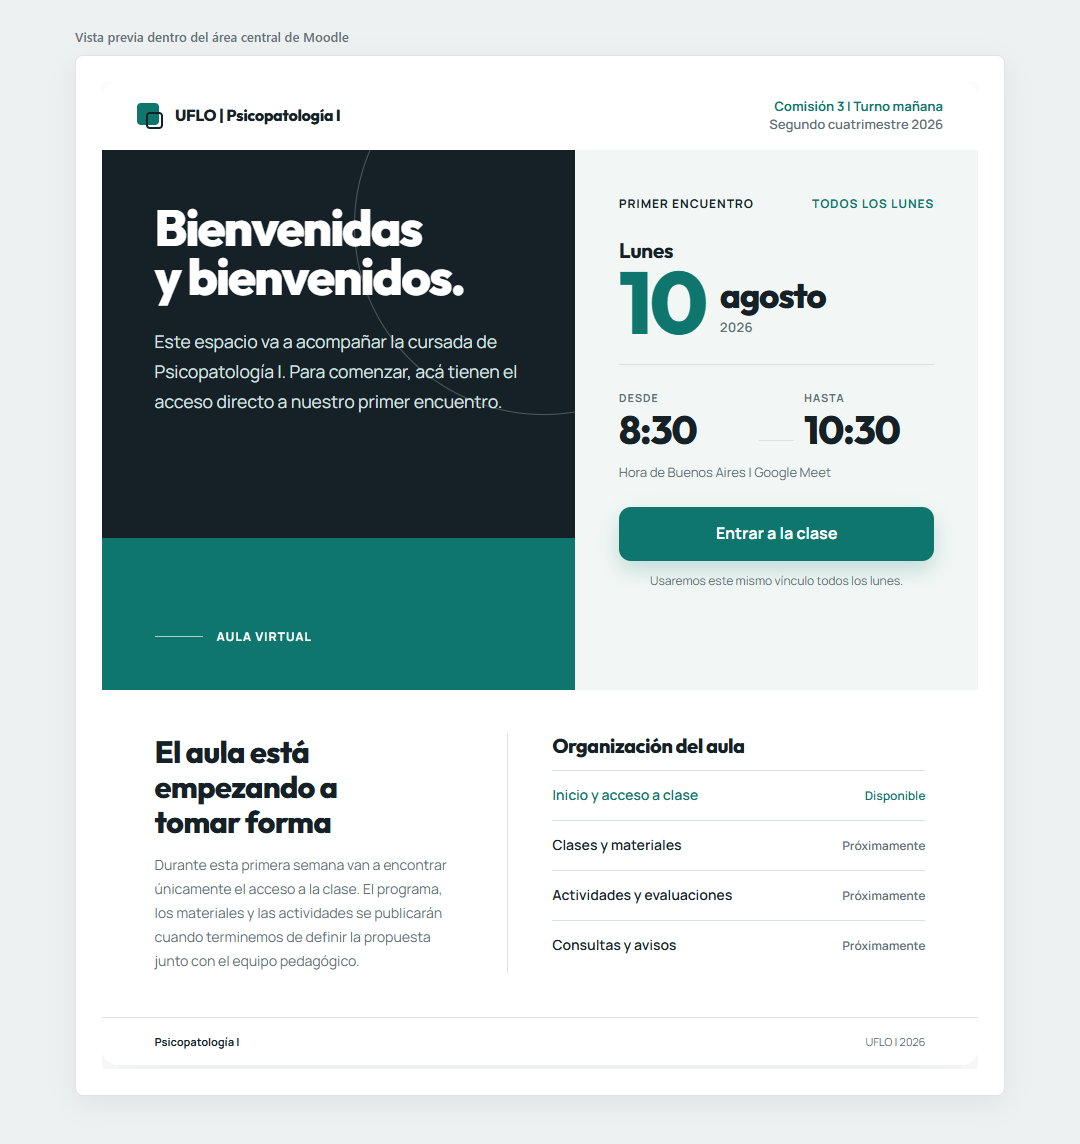
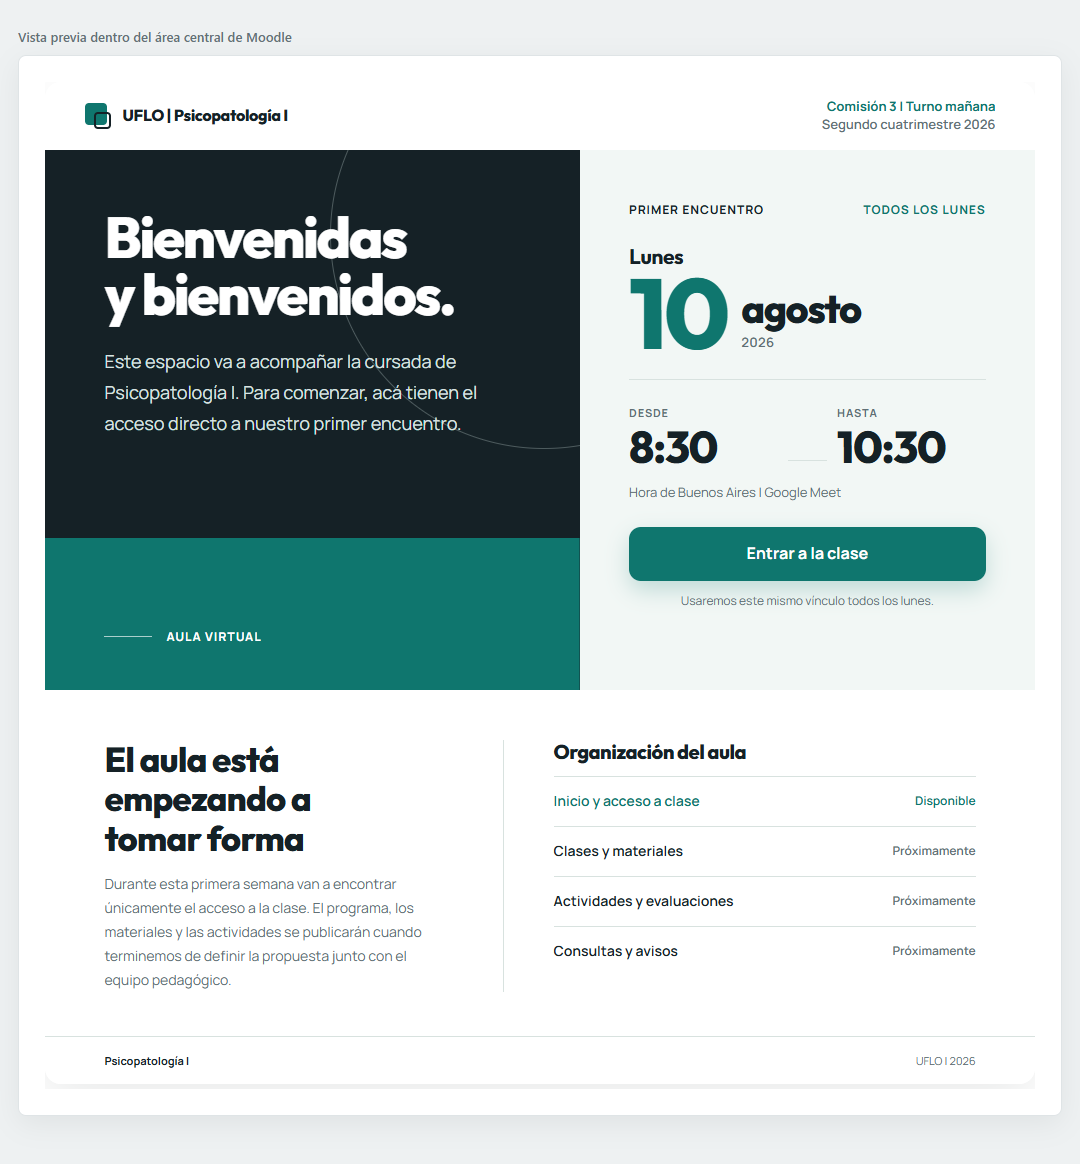
Aprovechar todo el ancho disponible en Moodle

diff --git a/inicio.html b/inicio.html
@@ -41,8 +41,9 @@
       border-radius: var(--pci-radius);
       box-shadow: 0 18px 52px rgba(21, 33, 38, 0.09);
       margin: 0 auto;
-      max-width: 1100px;
+      max-width: none;
       overflow: hidden;
+      width: 100%;
     }
 
     #psi-campus-inicio .pci-topbar {
@@ -163,7 +164,7 @@
     #psi-campus-inicio .pci-title {
       color: var(--pci-paper);
       font-family: "Outfit", system-ui, sans-serif;
-      font-size: clamp(44px, 5.8vw, 64px);
+      font-size: clamp(44px, 5.8vw, 82px);
       font-weight: 800;
       letter-spacing: -0.04em;
       line-height: 0.98;
@@ -265,7 +266,7 @@
     #psi-campus-inicio .pci-day {
       color: var(--pci-accent);
       font-family: "Outfit", system-ui, sans-serif;
-      font-size: clamp(78px, 10vw, 108px);
+      font-size: clamp(78px, 10vw, 132px);
       font-weight: 800;
       letter-spacing: -0.04em;
       line-height: 0.78;
@@ -276,7 +277,7 @@
       display: flex;
       flex-direction: column;
       font-family: "Outfit", system-ui, sans-serif;
-      font-size: clamp(28px, 4vw, 39px);
+      font-size: clamp(28px, 4vw, 46px);
       font-weight: 800;
       letter-spacing: -0.035em;
       line-height: 0.94;
@@ -318,7 +319,7 @@
     #psi-campus-inicio .pci-time-block time {
       color: var(--pci-ink);
       font-family: "Outfit", system-ui, sans-serif;
-      font-size: clamp(31px, 4.5vw, 43px);
+      font-size: clamp(31px, 4.5vw, 52px);
       font-weight: 800;
       letter-spacing: -0.035em;
       line-height: 1;

diff --git a/vista-previa-moodle.html b/vista-previa-moodle.html
@@ -16,7 +16,8 @@
     }
     .preview-shell {
       margin: 0 auto;
-      max-width: 930px;
+      max-width: none;
+      width: 100%;
     }
     .preview-label {
       color: #647176;

diff --git a/snippet-iframe-moodle.html b/snippet-iframe-moodle.html
@@ -127,7 +127,7 @@
     width: 100%;
     max-width: 100%;
     margin: 0;
-    padding: 16px 18px;
+    padding: 0;
     background: transparent;
     line-height: 0;
   }
